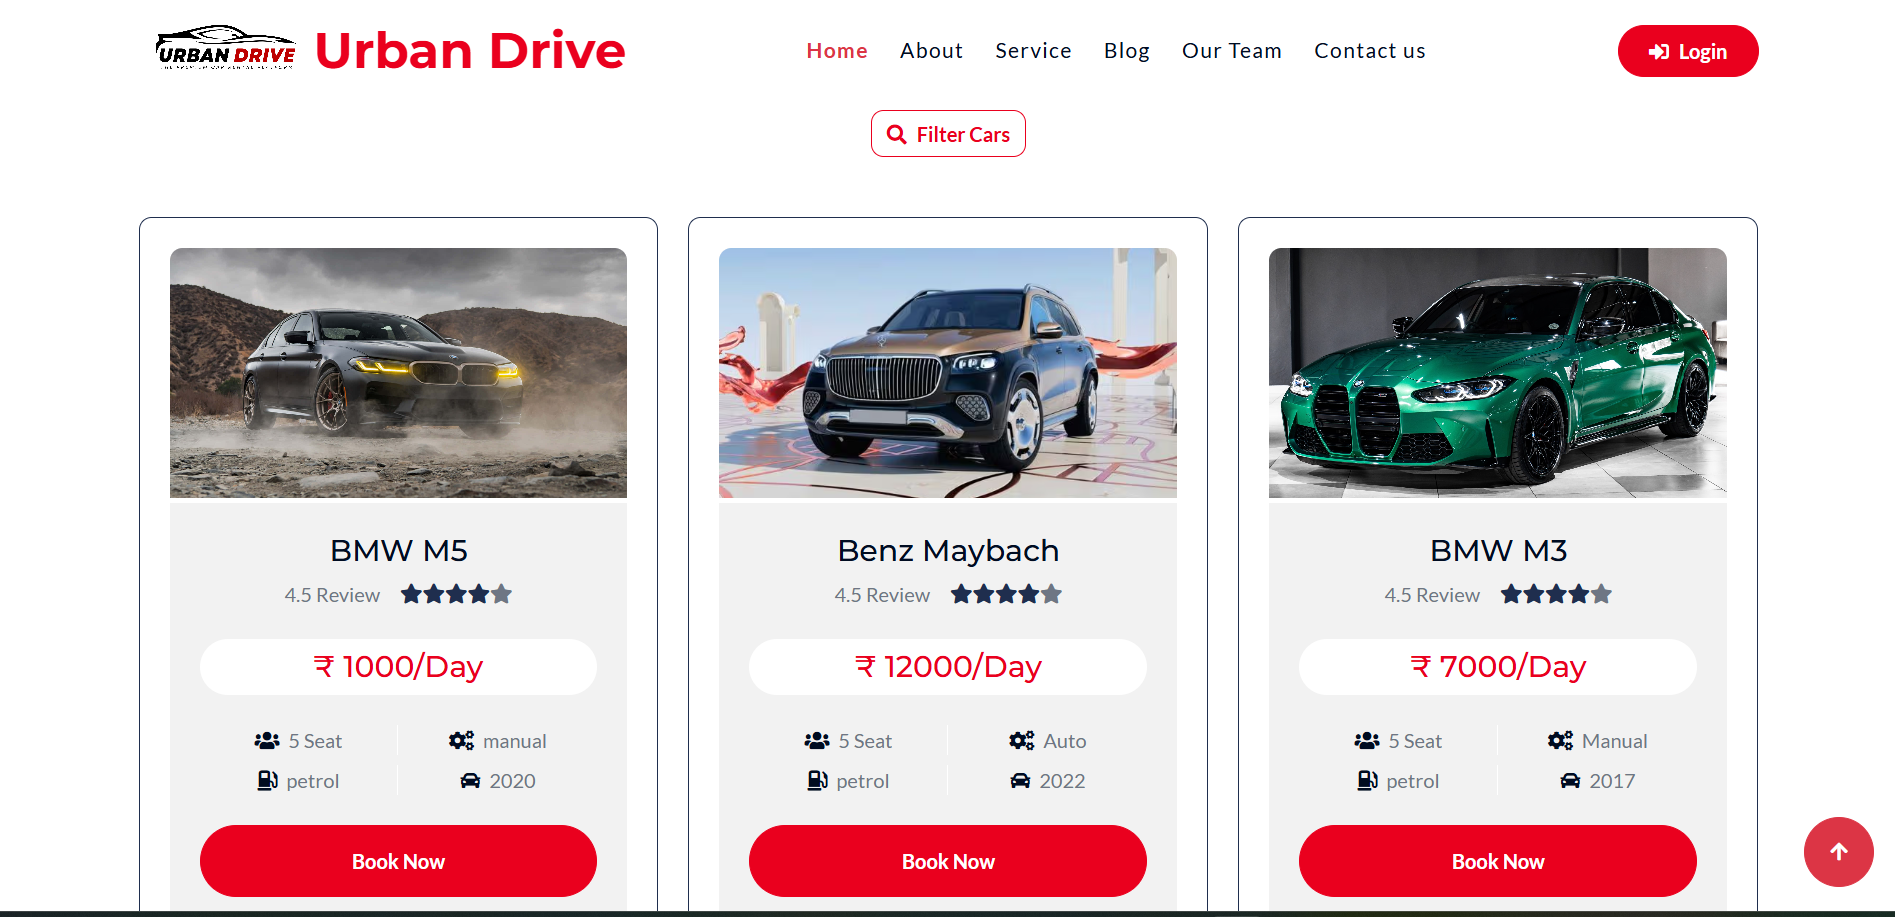
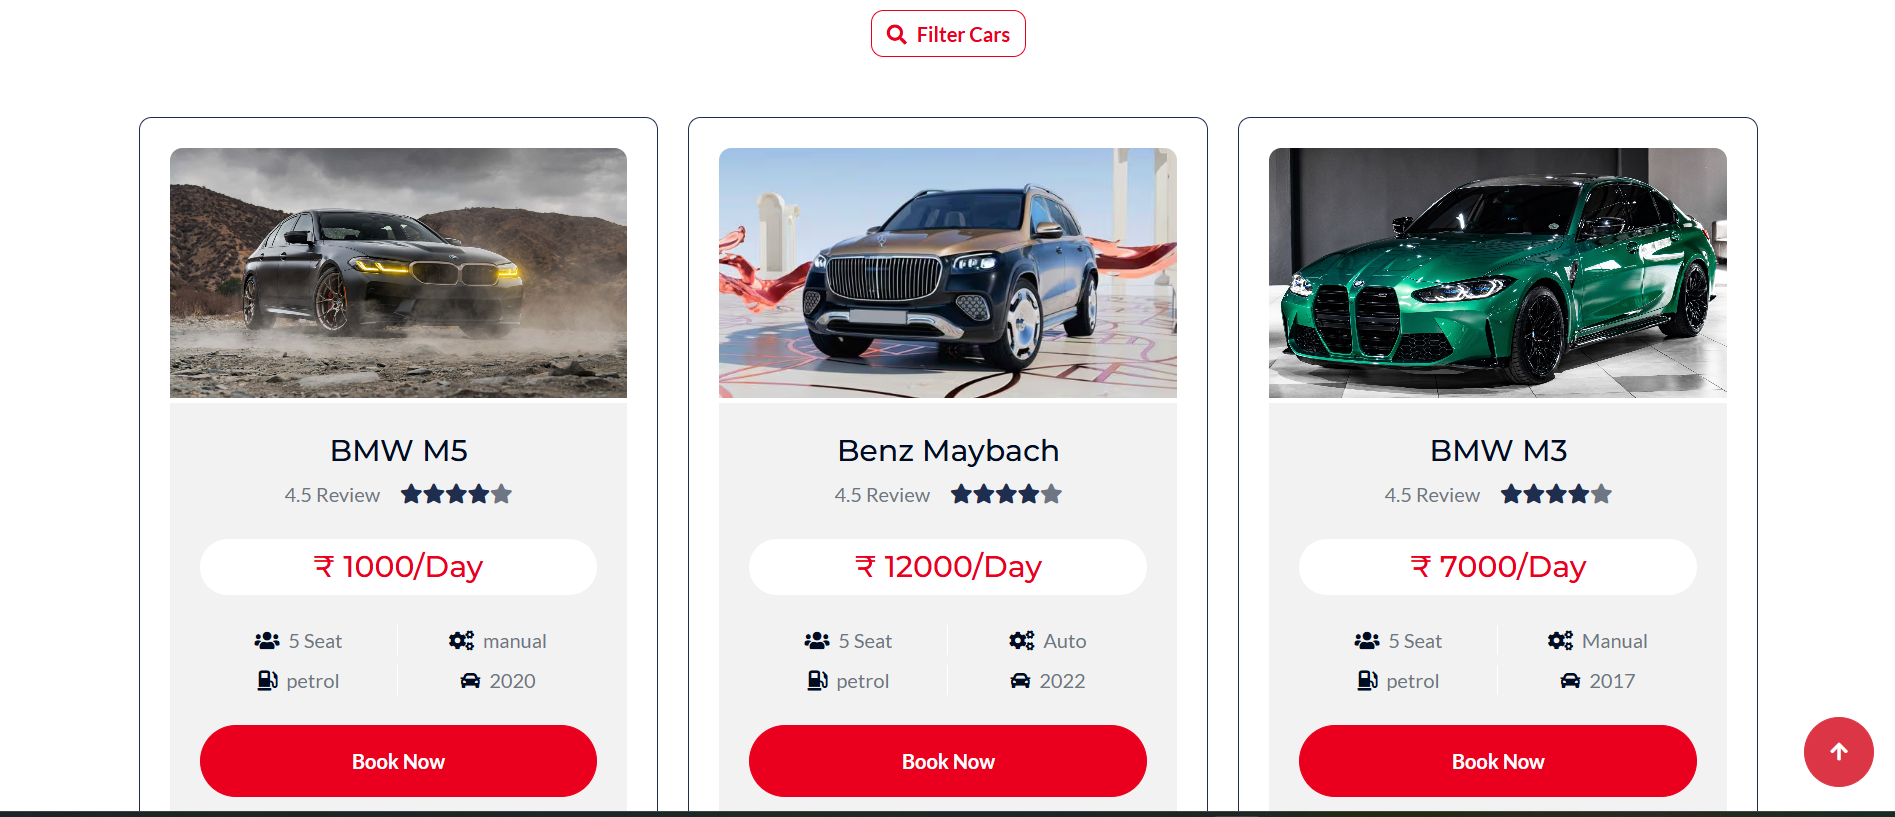
project images updated

diff --git a/index.html b/index.html
@@ -7,6 +7,9 @@
 <meta name="description" content="Anwarsha N S is a Full Stack Developer and Software Engineer from Kerala specializing in Python, Django, Java, PHP, Angular, JavaScript, MySQL, and modern web development. Explore projects, skills, certifications, experience, and resume.">
 <meta name="robots" content="index, follow, max-image-preview:large">
 <meta name="author" content="Anwarsha N S">
+<meta name="name" content="Anwarsha N S">
+<meta name="designer" content="Anwarsha N S">
+<meta name="publisher" content="Anwarsha N S">
 <meta name="theme-color" content="#09090F">
 <meta name="keywords" content="Anwarsha N S, Software Developer, Full Stack Developer, Web Developer, Software Engineer, Associate Analyst, Application Developer, Backend Developer, Frontend Developer, Python Developer, Django Developer, Angular Developer, PHP Developer, JavaScript Developer, BCA Graduate, Kerala, Portfolio">
 <meta property="og:type" content="website">
@@ -55,6 +58,8 @@ html{scroll-behavior:smooth}
 body{background:var(--bg);color:var(--text);font-family:'Inter',sans-serif;line-height:1.6;overflow-x:hidden;cursor:none;touch-action:manipulation;-webkit-tap-highlight-color:transparent}
 ::selection{background:rgba(201,168,76,.2);color:var(--gold2)}
 :focus-visible{outline:2px solid var(--gold);outline-offset:2px}
+
+.sr-only{position:absolute;width:1px;height:1px;padding:0;margin:-1px;overflow:hidden;clip:rect(0,0,0,0);white-space:nowrap;border:0}
 
 /* ── CUSTOM CURSOR ── */
 #cursor{position:fixed;width:10px;height:10px;border-radius:50%;background:var(--gold);pointer-events:none;z-index:9999;transform:translate(-50%,-50%);transition:width .2s,height .2s,opacity .2s;mix-blend-mode:screen}
@@ -236,13 +241,18 @@ h2.section-title{font-size:clamp(1.8rem,3vw,2.75rem);font-weight:800;letter-spac
 .proj-card{background:var(--surface);border:1px solid var(--border);border-radius:10px;overflow:hidden;transition:all .4s;cursor:pointer;transform-style:preserve-3d;position:relative}
 .proj-card:hover{border-color:var(--border3);box-shadow:0 24px 64px rgba(0,0,0,.6),var(--glow)}
 .proj-card.featured{border-color:rgba(201,168,76,.2)}
-.proj-banner{height:180px;position:relative;overflow:hidden;display:flex;align-items:center;justify-content:center}
-.proj-banner-bg{position:absolute;inset:0;background:var(--surface2)}
-.proj-banner-grid{position:absolute;inset:0;background-image:linear-gradient(rgba(201,168,76,.05) 1px,transparent 1px),linear-gradient(90deg,rgba(201,168,76,.05) 1px,transparent 1px);background-size:30px 30px}
-.proj-banner-name{position:relative;z-index:1;font-size:2.5rem;font-weight:800;font-family:'JetBrains Mono',monospace;background:var(--grad);-webkit-background-clip:text;-webkit-text-fill-color:transparent;background-clip:text;letter-spacing:-.05em}
-.proj-featured-tag{position:absolute;top:1rem;left:1rem;background:var(--gold);color:var(--bg);padding:.2rem .6rem;border-radius:2px;font-size:.65rem;font-weight:700;letter-spacing:.08em;text-transform:uppercase}
+.proj-banner{height:240px;position:relative;overflow:hidden}
+.proj-banner-bg{position:absolute;inset:0;background:var(--surface2);z-index:0}
+.proj-carousel{position:absolute;inset:0;z-index:0;display:flex;overflow:hidden}
+.proj-slide{position:absolute;inset:0;opacity:0;transform:scale(.98);transition:opacity .35s ease,transform .35s ease}
+.proj-slide.active{opacity:1;transform:scale(1)}
+.proj-slide img{width:100%;height:100%;object-fit:cover;display:block}
+.proj-banner-grid{position:absolute;inset:0;z-index:1;background-image:linear-gradient(rgba(201,168,76,.05) 1px,transparent 1px),linear-gradient(90deg,rgba(201,168,76,.05) 1px,transparent 1px);background-size:30px 30px}
+.proj-banner-caption{padding:1rem 1.75rem 0;position:relative;z-index:1}
+.proj-banner-name{position:relative;display:inline-block;font-size:2.4rem;font-weight:900;font-family:'JetBrains Mono',monospace;background:var(--grad);-webkit-background-clip:text;-webkit-text-fill-color:transparent;background-clip:text;letter-spacing:-.04em;line-height:1}
+.proj-featured-tag{position:absolute;top:1rem;left:1rem;z-index:2;background:var(--gold);color:var(--bg);padding:.2rem .6rem;border-radius:2px;font-size:.65rem;font-weight:700;letter-spacing:.08em;text-transform:uppercase}
 .proj-body{padding:1.75rem}
-.proj-title{font-size:1.05rem;font-weight:700;margin-bottom:.5rem;letter-spacing:-.02em}
+.proj-title{font-size:.95rem;font-weight:600;margin-bottom:.5rem;letter-spacing:-.02em;color:var(--text2)}
 .proj-desc{color:var(--text2);font-size:.85rem;line-height:1.7;margin-bottom:1.25rem}
 .proj-tags{display:flex;flex-wrap:wrap;gap:.35rem;margin-bottom:1.25rem}
 .proj-links{display:flex;gap:1.25rem}
@@ -281,6 +291,17 @@ h2.section-title{font-size:clamp(1.8rem,3vw,2.75rem);font-weight:800;letter-spac
 .modal-body{padding:2rem}
 .modal-close{float:right;background:var(--surface2);border:1px solid var(--border);border-radius:4px;color:var(--text2);width:32px;height:32px;display:flex;align-items:center;justify-content:center;cursor:pointer;font-size:1rem;line-height:1;transition:all .2s}
 .modal-close:hover{border-color:var(--gold);color:var(--gold)}
+
+.project-carousel{position:relative;margin-bottom:1.75rem;border:1px solid var(--border);border-radius:14px;overflow:hidden;background:var(--surface2)}
+.carousel-track{display:flex;transition:transform .35s ease;will-change:transform}
+.carousel-slide{min-width:100%;overflow:hidden}
+.carousel-slide img{width:100%;height:100%;object-fit:cover;display:block}
+.carousel-controls{position:absolute;top:50%;left:0;right:0;display:flex;justify-content:space-between;transform:translateY(-50%);padding:0 1rem;pointer-events:none}
+.carousel-btn{pointer-events:auto;min-width:38px;height:38px;border-radius:999px;border:1px solid rgba(255,255,255,.12);background:rgba(0,0,0,.55);color:var(--text);font-size:1.3rem;display:flex;align-items:center;justify-content:center;cursor:pointer;transition:all .2s}
+.carousel-btn:hover{background:rgba(201,168,76,.92);border-color:var(--gold);color:var(--bg)}
+.carousel-dots{display:flex;justify-content:center;gap:.5rem;padding:.85rem 0;background:rgba(0,0,0,.04)}
+.carousel-dot{width:10px;height:10px;border-radius:50%;border:1px solid var(--border);background:transparent;cursor:pointer;transition:transform .2s,background .2s}
+.carousel-dot.active{background:var(--gold);transform:scale(1.1)}
 
 /* ── CERTS ── */
 #certificates{background:var(--bg2)}
@@ -383,12 +404,20 @@ footer{background:var(--bg);border-top:1px solid var(--border);padding:2rem 2.5r
   .modal-overlay{padding:1rem}
   .modal-header,.modal-body{padding:1.25rem}
   .projects-grid,.certs-grid,.ach-grid{grid-template-columns:1fr}
+  .proj-card{border-radius:16px}
+  .proj-banner{height:180px}
+  .proj-banner-caption{padding:1rem 1.25rem 0}
+  .proj-body{padding:1.25rem}
+  .proj-title{font-size:1rem}
+  .proj-desc{font-size:.92rem}
+  .proj-links{flex-direction:column;gap:.75rem}
+  .proj-links .proj-link{width:100%;justify-content:center;padding:.85rem 1rem;border-radius:10px;background:rgba(255,255,255,.04);border:1px solid rgba(255,255,255,.08);}
+  .proj-links .proj-link:hover{color:var(--gold);background:rgba(201,168,76,.07)}
+  .proj-banner-grid{opacity:.35}
+  .proj-slide img{object-position:center 35%}
   .exp-timeline{padding-left:1.5rem}
   .exp-timeline::before{left:.5rem}
   .exp-dot{left:-1.55rem}
-  .proj-body{padding:1.25rem}
-  .proj-links{flex-direction:column;gap:.75rem}
-  .proj-banner{height:150px}
   .cert-card,.skill-cat,.edu-card,.ach-card{padding:1.1rem}
   .cert-files-grid{grid-template-columns:1fr}
   .skills-layout{grid-template-columns:1fr !important;gap:2rem !important;margin-bottom:2rem !important}
@@ -439,6 +468,8 @@ footer{background:var(--bg);border-top:1px solid var(--border);padding:2rem 2.5r
 </script>
 </head>
 <body>
+<div class="sr-only" aria-hidden="true">Anwarsha N S | Full Stack Developer | Software Engineer | Web Developer | Python | Django | Java | PHP | Angular | JavaScript | MySQL | Kerala</div>
+<div class="sr-only" aria-hidden="true">Anwarsha N S portfolio, Anwarsha N S resume, Anwarsha N S projects, Anwarsha N S skills, Anwarsha N S achievements, Anwarsha N S certificates</div>
 
 <!-- CURSOR -->
 <div id="cursor"></div>
@@ -645,8 +676,23 @@ footer{background:var(--bg);border-top:1px solid var(--border);padding:2rem 2.5r
     <h2 class="section-title reveal delay-1">What I've Built</h2>
     <p class="section-desc reveal delay-2">A selection of my best work — from concept to deployment.</p>
     <div class="projects-grid">
-      <div class="proj-card featured tilt reveal" onclick="openProject('skillera')">
-        <div class="proj-banner"><div class="proj-banner-bg"></div><div class="proj-banner-grid"></div><div class="proj-banner-name">Skillera</div><div class="proj-featured-tag">Featured</div></div>
+      <div class="proj-card featured tilt reveal" onclick="openProject('skillera')" data-carousel="skillera">
+        <div class="proj-banner">
+          <div class="proj-banner-bg"></div>
+          <div class="proj-carousel">
+            <div class="proj-slide active">
+              <img src="Uploads/Anwarsha%20N%20S%20-%20Project%20-%20Skillera.png" alt="Skillera screenshot 1">
+            </div>
+            <div class="proj-slide">
+              <img src="Uploads/Anwarsha%20N%20S%20-%20Project%20-%20Skillera%202.png" alt="Skillera screenshot 2">
+            </div>
+          </div>
+          <div class="proj-banner-grid"></div>
+        </div>
+        <div class="proj-banner-caption">
+          <div class="proj-banner-name">Skillera</div>
+          <!-- <div class="proj-featured-tag">Featured</div> -->
+        </div>
         <div class="proj-body">
           <div class="proj-title">Skillera — Online Skill Learning Platform</div>
           <div class="proj-desc">A full-featured e-learning platform for teaching and learning personal skills, powered by Python Django with AI-assisted learning features, secure course management, and responsive design.</div>
@@ -655,14 +701,28 @@ footer{background:var(--bg);border-top:1px solid var(--border);padding:2rem 2.5r
             <a href="https://github.com/anwarshans" target="_blank" class="proj-link hoverable" onclick="event.stopPropagation()">
               <svg viewBox="0 0 24 24"><path d="M9 19c-5 1.5-5-2.5-7-3m14 6v-3.87a3.37 3.37 0 0 0-.94-2.61c3.14-.35 6.44-1.54 6.44-7A5.44 5.44 0 0 0 20 4.77 5.07 5.07 0 0 0 19.91 1S18.73.65 16 2.48a13.38 13.38 0 0 0-7 0C6.27.65 5.09 1 5.09 1A5.07 5.07 0 0 0 5 4.77a5.44 5.44 0 0 0-1.5 3.78c0 5.42 3.3 6.61 6.44 7A3.37 3.37 0 0 0 9 18.13V22"/></svg> GitHub
             </a>
-            <a class="proj-link hoverable" style="color:var(--gold);cursor:pointer" onclick="event.stopPropagation();openProject('skillera')">
+            <a href="#" class="proj-link hoverable case-study-link" data-project="skillera" style="color:var(--gold);cursor:pointer">
               <svg viewBox="0 0 24 24"><circle cx="11" cy="11" r="8"/><line x1="21" y1="21" x2="16.65" y2="16.65"/></svg> Case Study
             </a>
           </div>
         </div>
       </div>
-      <div class="proj-card tilt reveal delay-1" onclick="openProject('urbandrive')">
-        <div class="proj-banner"><div class="proj-banner-bg"></div><div class="proj-banner-grid"></div><div class="proj-banner-name">UrbanDrive</div></div>
+      <div class="proj-card tilt reveal delay-1" onclick="openProject('urbandrive')" data-carousel="urbandrive">
+        <div class="proj-banner">
+          <div class="proj-banner-bg"></div>
+          <div class="proj-carousel">
+            <div class="proj-slide active">
+              <img src="Uploads/Anwarsha%20N%20S%20-%20Project%20-%20Urban%20Drive.png" alt="Urban Drive screenshot 1">
+            </div>
+            <div class="proj-slide">
+              <img src="Uploads/Anwarsha%20N%20S%20-%20Project%20-%20Urban%20Drive%202.png" alt="Urban Drive screenshot 2">
+            </div>
+          </div>
+          <div class="proj-banner-grid"></div>
+        </div>
+        <div class="proj-banner-caption">
+          <div class="proj-banner-name">UrbanDrive</div>
+        </div>
         <div class="proj-body">
           <div class="proj-title">Urban Drive — Premium Car Rental Platform</div>
           <div class="proj-desc">A full-stack vehicle rental platform enabling users to list, browse, and rent vehicles with complete booking workflows, authentication, and optimized database performance.</div>
@@ -671,7 +731,7 @@ footer{background:var(--bg);border-top:1px solid var(--border);padding:2rem 2.5r
             <a href="https://github.com/anwarshans" target="_blank" class="proj-link hoverable" onclick="event.stopPropagation()">
               <svg viewBox="0 0 24 24"><path d="M9 19c-5 1.5-5-2.5-7-3m14 6v-3.87a3.37 3.37 0 0 0-.94-2.61c3.14-.35 6.44-1.54 6.44-7A5.44 5.44 0 0 0 20 4.77 5.07 5.07 0 0 0 19.91 1S18.73.65 16 2.48a13.38 13.38 0 0 0-7 0C6.27.65 5.09 1 5.09 1A5.07 5.07 0 0 0 5 4.77a5.44 5.44 0 0 0-1.5 3.78c0 5.42 3.3 6.61 6.44 7A3.37 3.37 0 0 0 9 18.13V22"/></svg> GitHub
             </a>
-            <a class="proj-link hoverable" style="color:var(--gold);cursor:pointer" onclick="event.stopPropagation();openProject('urbandrive')">
+            <a href="#" class="proj-link hoverable case-study-link" data-project="urbandrive" style="color:var(--gold);cursor:pointer">
               <svg viewBox="0 0 24 24"><circle cx="11" cy="11" r="8"/><line x1="21" y1="21" x2="16.65" y2="16.65"/></svg> Case Study
             </a>
           </div>
@@ -999,9 +1059,42 @@ document.querySelectorAll('.tilt').forEach(el => {
   });
 });
 
+function rotateProjectCarousel() {
+  document.querySelectorAll('[data-carousel]').forEach(card => {
+    const slides = card.querySelectorAll('.proj-slide');
+    if (!slides.length) return;
+    const activeIndex = Array.from(slides).findIndex(slide => slide.classList.contains('active'));
+    const nextIndex = activeIndex === slides.length - 1 ? 0 : activeIndex + 1;
+    slides.forEach((slide, index) => slide.classList.toggle('active', index === nextIndex));
+  });
+}
+setInterval(rotateProjectCarousel, 4500);
+
+document.querySelectorAll('.case-study-link').forEach(link => {
+  link.addEventListener('click', event => {
+    event.preventDefault();
+    event.stopPropagation();
+    const projectId = link.dataset.project;
+    if (projectId) openProject(projectId);
+  });
+});
+
 /* ═══════════════════════════════════════════
    PROJECT MODAL
 ═══════════════════════════════════════════ */
+let carouselIndex = 0;
+let carouselImages = [];
+const projectCarouselImages = {
+  urbandrive: [
+    'Uploads/Anwarsha N S - Project - Urban Drive.png',
+    'Uploads/Anwarsha N S - Project - Urban Drive 2.png'
+  ].map(encodeURI),
+  skillera: [
+    'Uploads/Anwarsha N S - Project - Skillera.png',
+    'Uploads/Anwarsha N S - Project - Skillera 2.png'
+  ].map(encodeURI)
+};
+const projectCarouselCount = id => projectCarouselImages[id] ? projectCarouselImages[id].length : 0;
 const projects = {
   skillera: {
     title: 'Skillera — Online Skill Learning Platform',
@@ -1009,7 +1102,7 @@ const projects = {
     org: 'Santhigiri College of Computer Sciences · Academic Project',
     tech: ['Python','Django','MySQL','Bootstrap','AI Features'],
     desc: 'Skillera is a comprehensive online platform designed for teaching and learning personal skills. The platform features a robust course management system, secure user authentication, and AI-assisted learning features that enhance engagement and personalisation.',
-    features: ['Course creation and management dashboard','Secure authentication with session management','AI-assisted learning recommendations','Responsive design across all devices','Efficient database operations for fast querying','Student progress tracking'],
+    features: ['Course creation and management dashboard','Secure authentication with session management','AI-assisted learning recommendations','Responsive design across all devices','Efficient database operations for fast querying','Student progress tracking']
   },
   urbandrive: {
     title: 'Urban Drive — Premium Car Rental Platform',
@@ -1017,11 +1110,51 @@ const projects = {
     org: 'Santhigiri College of Computer Sciences · Mini Project',
     tech: ['PHP','MySQL','JavaScript','Bootstrap'],
     desc: 'Urban Drive is a premium vehicle rental platform built with PHP and MySQL. Users can list their vehicles for rent and browse available vehicles for booking. The platform includes complete rental workflow management with optimized database performance.',
-    features: ['Vehicle listing and management system','User authentication & role-based access','Booking workflow with status tracking','Admin management dashboard','Optimised database schema for performance','Responsive mobile-first UI'],
+    features: ['Vehicle listing and management system','User authentication & role-based access','Booking workflow with status tracking','Admin management dashboard','Optimised database schema for performance','Responsive mobile-first UI']
   }
 };
+function updateProjectCarousel() {
+  const track = document.querySelector('.carousel-track');
+  const slides = document.querySelectorAll('.carousel-slide');
+  const dots = document.querySelectorAll('.carousel-dot');
+  if (track) {
+    track.style.transform = `translateX(-${carouselIndex * 100}%)`;
+  }
+  slides.forEach((slide, index) => {
+    slide.classList.toggle('active', index === carouselIndex);
+  });
+  dots.forEach((dot, index) => {
+    dot.classList.toggle('active', index === carouselIndex);
+  });
+}
+function setProjectCarousel(index) {
+  if (!carouselImages.length) return;
+  carouselIndex = (index + carouselImages.length) % carouselImages.length;
+  updateProjectCarousel();
+}
+function prevProjectCarousel() { setProjectCarousel(carouselIndex - 1); }
+function nextProjectCarousel() { setProjectCarousel(carouselIndex + 1); }
 function openProject(id) {
   const p = projects[id];
+  carouselImages = projectCarouselImages[id] || [];
+  carouselIndex = 0;
+  const carouselMarkup = carouselImages.length ? `
+      <div class="project-carousel">
+        <div class="carousel-track">
+          ${carouselImages.map((src, index) => `
+            <div class="carousel-slide${index === 0 ? ' active' : ''}">
+              <img src="${src}" alt="${p.title} screenshot ${index + 1}" loading="lazy" decoding="async">
+            </div>`).join('')}
+        </div>
+        <div class="carousel-controls">
+          <button class="carousel-btn" type="button" onclick="prevProjectCarousel()">‹</button>
+          <button class="carousel-btn" type="button" onclick="nextProjectCarousel()">›</button>
+        </div>
+        <div class="carousel-dots">
+          ${carouselImages.map((_, index) => `<button class="carousel-dot${index === 0 ? ' active' : ''}" type="button" onclick="setProjectCarousel(${index})" aria-label="Show image ${index + 1}"></button>`).join('')}
+        </div>
+      </div>` : '';
+
   document.getElementById('modalBox').innerHTML = `
     <div class="modal-header">
       <button class="modal-close" onclick="closeModal()">✕</button>
@@ -1030,6 +1163,7 @@ function openProject(id) {
       <div style="font-size:.78rem;color:var(--text3)">${p.org}</div>
     </div>
     <div class="modal-body">
+      ${carouselMarkup}
       <p style="color:var(--text2);line-height:1.8;margin-bottom:1.5rem;font-size:.9rem">${p.desc}</p>
       <div style="font-size:.68rem;color:var(--text3);letter-spacing:.1em;text-transform:uppercase;font-family:'JetBrains Mono',monospace;margin-bottom:.85rem">Key Features</div>
       <ul style="list-style:none;display:flex;flex-direction:column;gap:.55rem;margin-bottom:1.5rem">
@@ -1043,6 +1177,7 @@ function openProject(id) {
     </div>`;
   document.getElementById('modalOverlay').classList.add('open');
   document.body.style.overflow = 'hidden';
+  if (carouselImages.length) updateProjectCarousel();
 }
 function closeModal(e) {
   if (!e || e.target === document.getElementById('modalOverlay')) {
@@ -1058,11 +1193,18 @@ document.addEventListener('keydown', e => { if (e.key === 'Escape') closeModal()
 function handleSubmit() {
   const n = document.getElementById('fn').value.trim();
   const em = document.getElementById('fe').value.trim();
+  const s = document.getElementById('fs').value.trim();
   const m = document.getElementById('fm').value.trim();
-  if (!n || !em || !m) { alert('Please fill in your name, email, and message.'); return; }
+  if (!n || !em || !m) {
+    alert('Please fill in your name, email, and message.');
+    return;
+  }
+  const subject = s || 'New portfolio inquiry from website';
+  const body = `Name: ${n}%0D%0AEmail: ${em}%0D%0A%0D%0A${encodeURIComponent(m)}`;
+  window.location.href = `mailto:anwarshans.dev@gmail.com?subject=${encodeURIComponent(subject)}&body=${body}`;
   const msg = document.getElementById('formMsg');
+  msg.textContent = 'Opening your email app…';
   msg.style.display = 'block';
-  ['fn','fe','fs','fm'].forEach(id => document.getElementById(id).value = '');
   setTimeout(() => msg.style.display = 'none', 5000);
 }
 </script>
